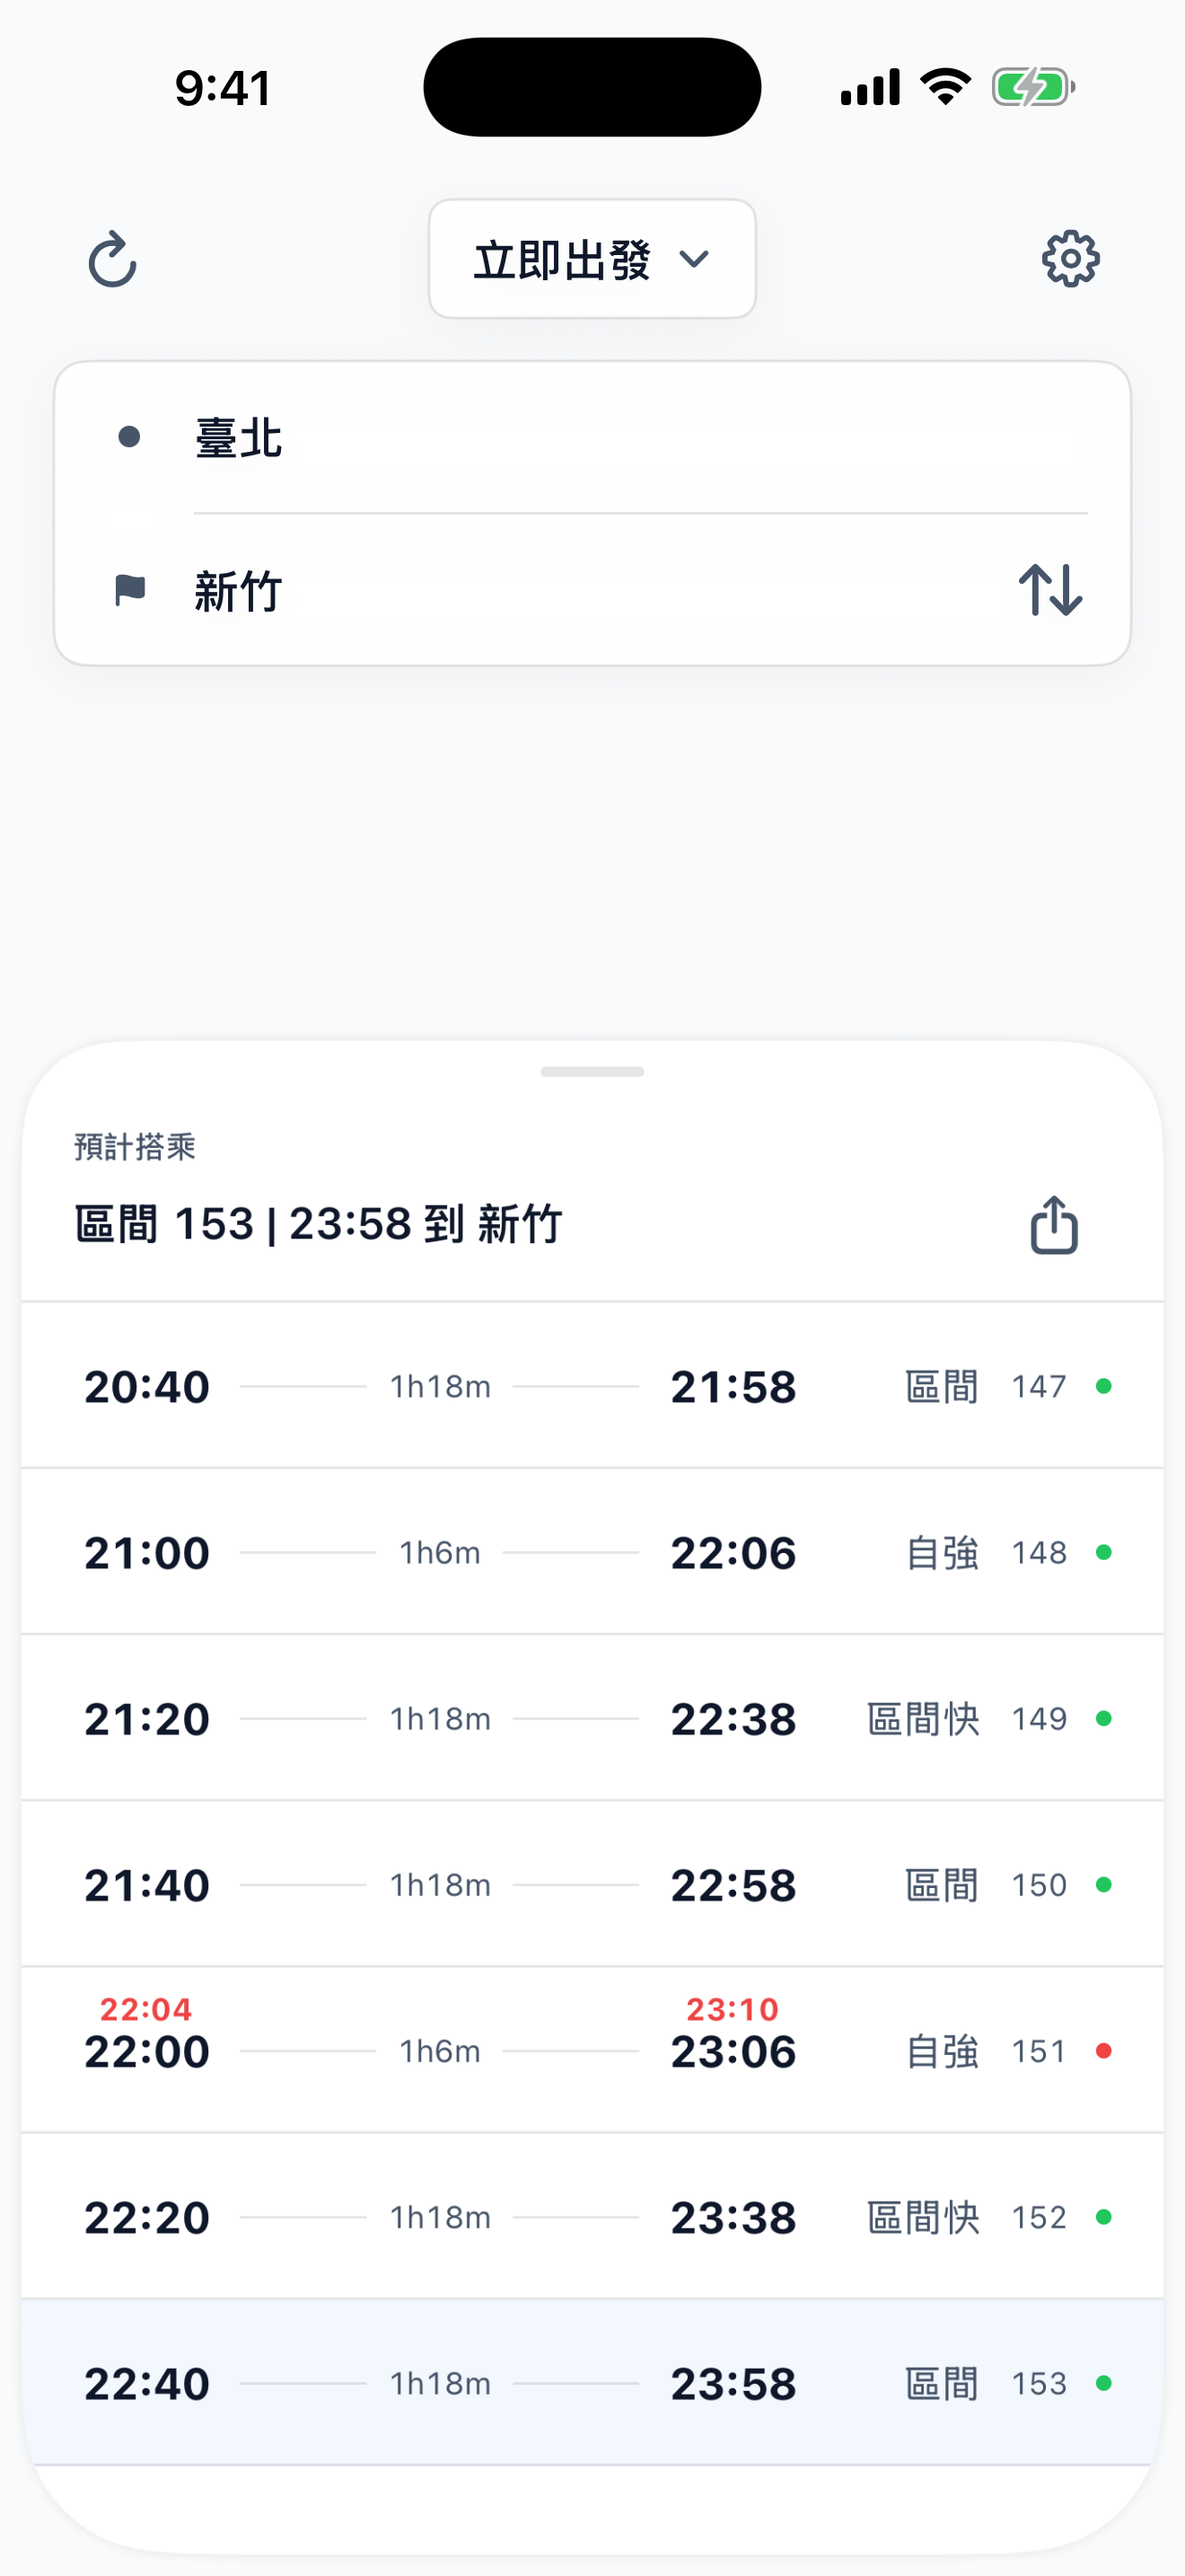
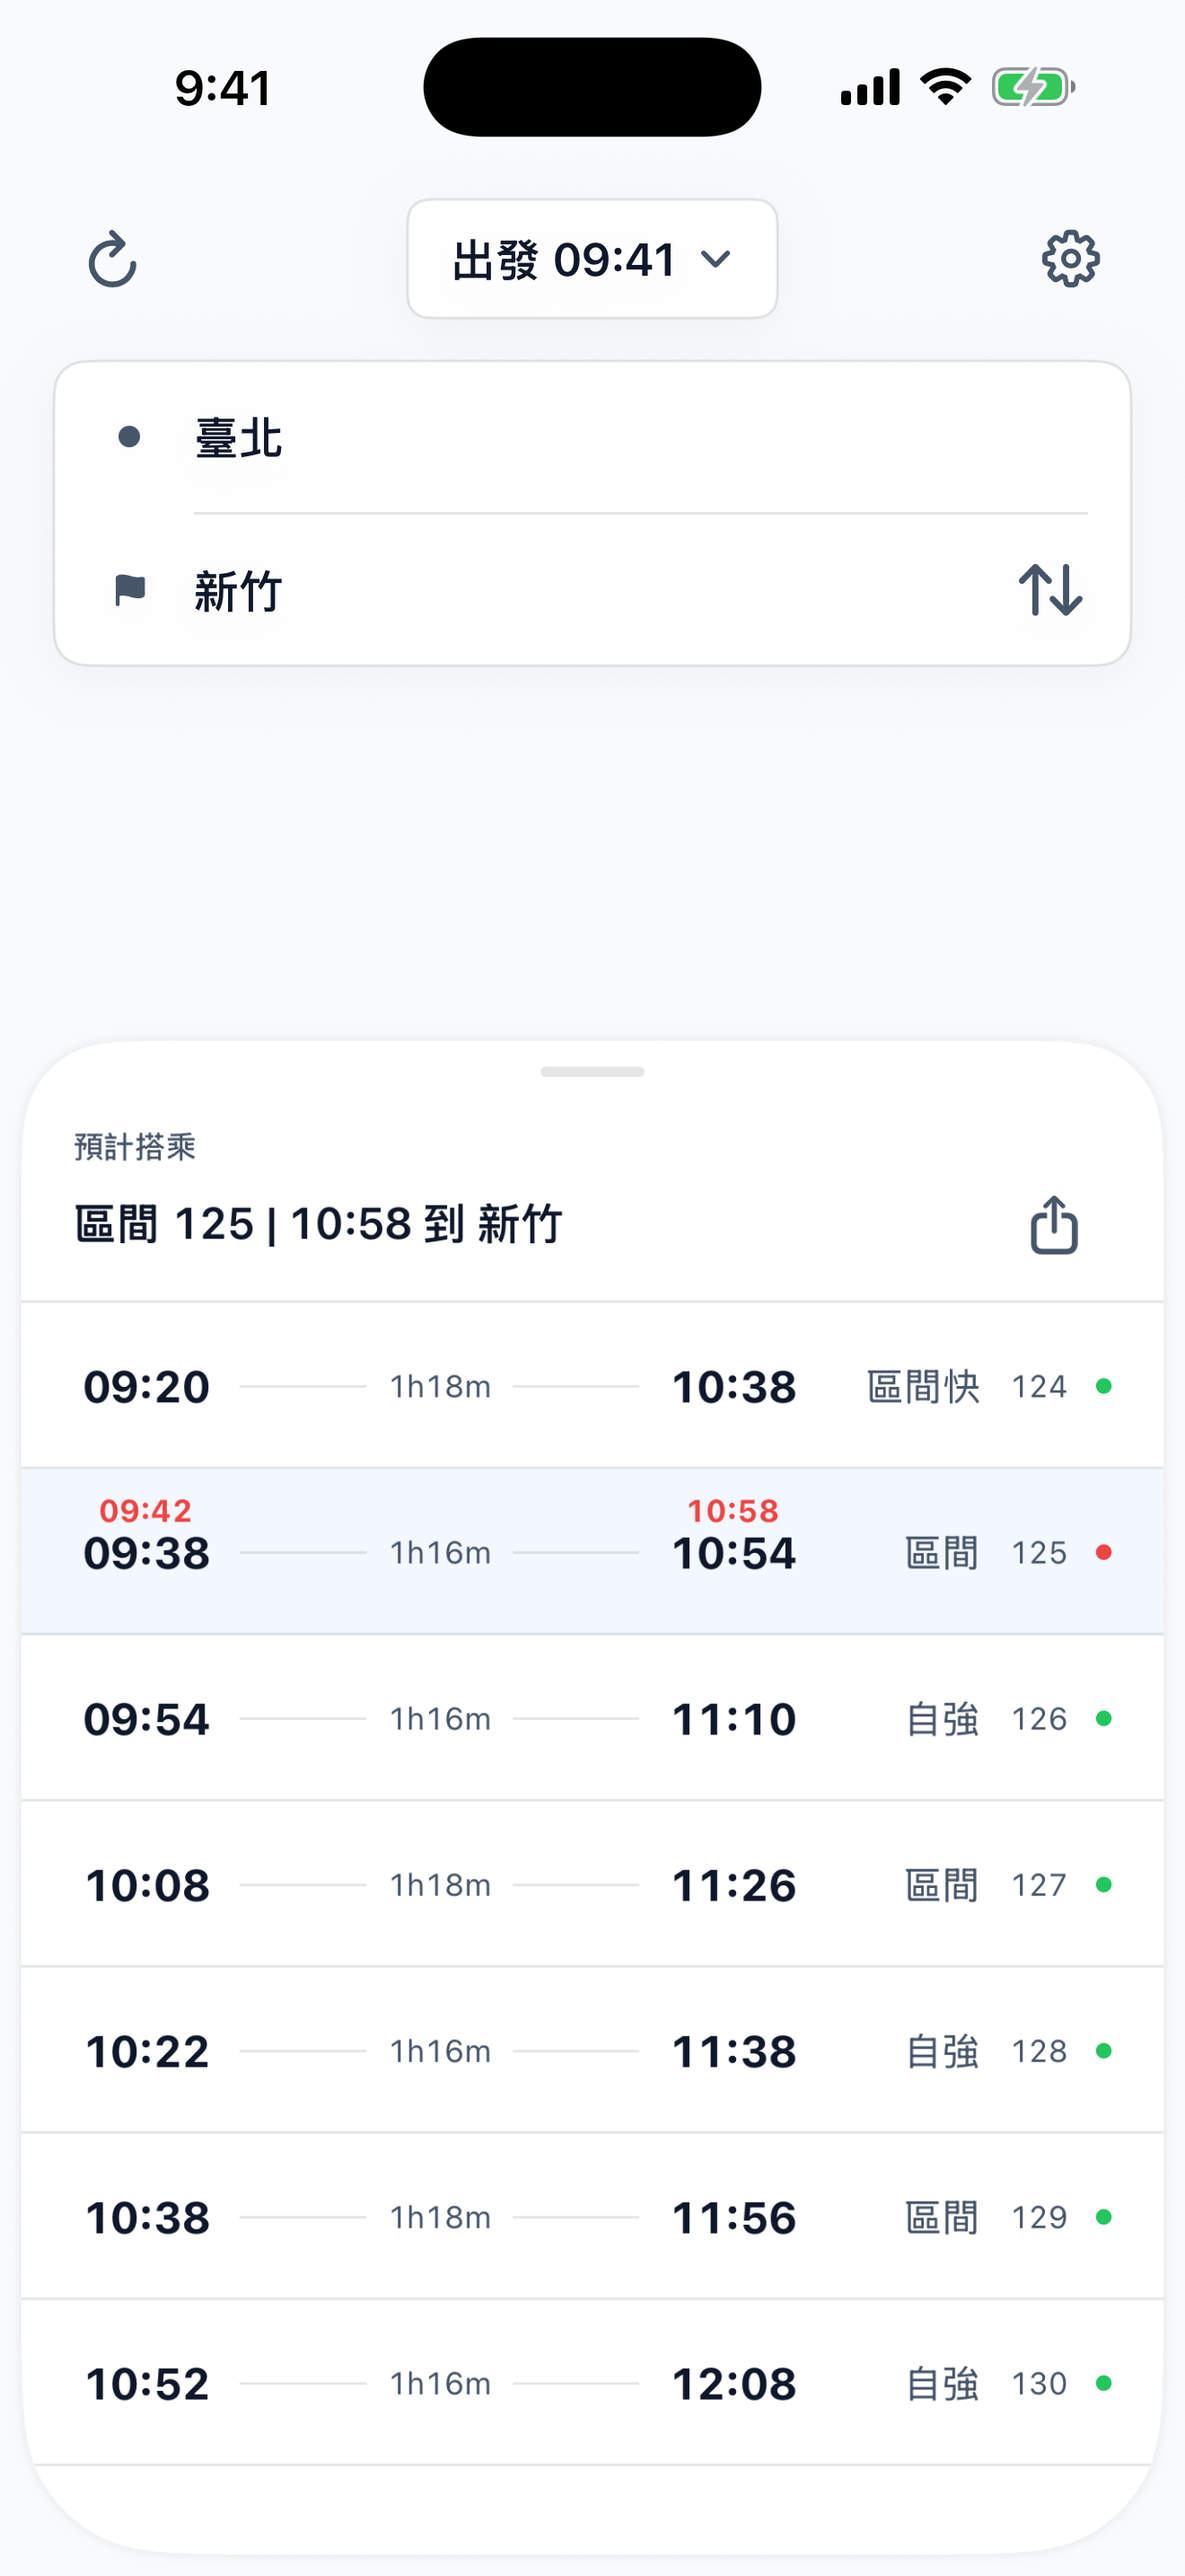
fix: refine docs showcase screenshot

diff --git a/apps/ios/OnTrack/APIClient.swift b/apps/ios/OnTrack/APIClient.swift
@@ -72,6 +72,12 @@ actor APIClient {
     private var usesMockData: Bool {
         ProcessInfo.processInfo.environment["ONTRACK_MOCK_DATA"] == "1"
             || ProcessInfo.processInfo.arguments.contains("--mock-data")
+            || usesShowcaseData
+    }
+
+    private var usesShowcaseData: Bool {
+        ProcessInfo.processInfo.environment["ONTRACK_SHOWCASE_DATA"] == "1"
+            || ProcessInfo.processInfo.arguments.contains("--showcase-data")
     }
 #endif
 }
@@ -110,7 +116,12 @@ private enum MockAPI {
     }
 
     private static func mockTrains(origin: Station, destination: Station) -> [TrainInfo] {
-        (0..<54).map { index in
+        if ProcessInfo.processInfo.environment["ONTRACK_SHOWCASE_DATA"] == "1"
+            || ProcessInfo.processInfo.arguments.contains("--showcase-data") {
+            return showcaseTrains(origin: origin, destination: destination)
+        }
+
+        return (0..<54).map { index in
             let departureMinutes = 5 * 60 + index * 20
             let durationMinutes = index.isMultiple(of: 3) ? 66 : 78
             let delay = index % 7 == 2 ? 4 : nil
@@ -127,6 +138,99 @@ private enum MockAPI {
                 status: delay == nil ? .onTime : .delayed
             )
         }
+    }
+
+    private static func showcaseTrains(origin: Station, destination: Station) -> [TrainInfo] {
+        [
+            TrainInfo(
+                trainNo: "124",
+                trainType: "區間快",
+                direction: 0,
+                originStation: origin.id,
+                destinationStation: destination.id,
+                departureTime: "09:20",
+                arrivalTime: "10:38",
+                delay: nil,
+                status: .onTime
+            ),
+            TrainInfo(
+                trainNo: "125",
+                trainType: "區間",
+                direction: 0,
+                originStation: origin.id,
+                destinationStation: destination.id,
+                departureTime: "09:38",
+                arrivalTime: "10:54",
+                delay: 4,
+                status: .delayed
+            ),
+            TrainInfo(
+                trainNo: "126",
+                trainType: "自強",
+                direction: 0,
+                originStation: origin.id,
+                destinationStation: destination.id,
+                departureTime: "09:54",
+                arrivalTime: "11:10",
+                delay: nil,
+                status: .onTime
+            ),
+            TrainInfo(
+                trainNo: "127",
+                trainType: "區間",
+                direction: 0,
+                originStation: origin.id,
+                destinationStation: destination.id,
+                departureTime: "10:08",
+                arrivalTime: "11:26",
+                delay: nil,
+                status: .onTime
+            ),
+            TrainInfo(
+                trainNo: "128",
+                trainType: "自強",
+                direction: 0,
+                originStation: origin.id,
+                destinationStation: destination.id,
+                departureTime: "10:22",
+                arrivalTime: "11:38",
+                delay: nil,
+                status: .onTime
+            ),
+            TrainInfo(
+                trainNo: "129",
+                trainType: "區間",
+                direction: 0,
+                originStation: origin.id,
+                destinationStation: destination.id,
+                departureTime: "10:38",
+                arrivalTime: "11:56",
+                delay: nil,
+                status: .onTime
+            ),
+            TrainInfo(
+                trainNo: "130",
+                trainType: "自強",
+                direction: 0,
+                originStation: origin.id,
+                destinationStation: destination.id,
+                departureTime: "10:52",
+                arrivalTime: "12:08",
+                delay: nil,
+                status: .onTime
+            ),
+            TrainInfo(
+                trainNo: "131",
+                trainType: "區間快",
+                direction: 0,
+                originStation: origin.id,
+                destinationStation: destination.id,
+                departureTime: "11:08",
+                arrivalTime: "12:26",
+                delay: nil,
+                status: .onTime
+            ),
+        ]
     }
 
     private static func trainType(for index: Int) -> String {

diff --git a/apps/ios/OnTrack/ContentView.swift b/apps/ios/OnTrack/ContentView.swift
@@ -175,6 +175,13 @@ struct ContentView: View {
         return today...maxDate.addingTimeInterval(-1)
     }
 
+#if DEBUG
+    private var isShowcaseMode: Bool {
+        ProcessInfo.processInfo.environment["ONTRACK_SHOWCASE_DATA"] == "1"
+            || ProcessInfo.processInfo.arguments.contains("--showcase-data")
+    }
+#endif
+
     var body: some View {
         NavigationStack {
             ZStack {
@@ -253,6 +260,11 @@ struct ContentView: View {
                 await loadStations()
             }
             .onAppear {
+#if DEBUG
+                guard !isShowcaseMode else {
+                    return
+                }
+#endif
                 refreshAutoDetectedOrigin()
             }
             .task(id: scheduleTaskID) {
@@ -416,12 +428,42 @@ struct ContentView: View {
             let loadedStations = try await APIClient.shared.stations()
             stations = loadedStations
 
+#if DEBUG
+            if isShowcaseMode {
+                applyShowcaseState()
+                return
+            }
+#endif
+
             resolveInitialStations(loadedStations)
             refreshAutoDetectedOrigin()
         } catch {
             errorMessage = error.localizedDescription
         }
     }
+
+#if DEBUG
+    private func applyShowcaseState() {
+        setOrigin("1000", source: .geo)
+        destinationId = "1210"
+        destinationSource = .cached
+        languageCode = AppLanguageSetting.zhTW.rawValue
+        appearanceRaw = AppAppearanceSetting.light.rawValue
+        activeSheet = .trainPanel
+
+        var components = Formatters.taipeiCalendar.dateComponents(
+            [.year, .month, .day],
+            from: Date()
+        )
+        components.hour = 9
+        components.minute = 41
+        components.second = 0
+
+        if let showcaseDate = Formatters.taipeiCalendar.date(from: components) {
+            timeSelection = TimeSelection(mode: .departure, date: showcaseDate)
+        }
+    }
+#endif
 
     private func loadSchedule(refreshLive: Bool = false) async {
         guard canLoadSchedule, let originStation, let destinationStation else {

diff --git a/apps/web/src/app/docs/page.module.css b/apps/web/src/app/docs/page.module.css
@@ -5,7 +5,7 @@
     --docs-image-outline: rgba(0, 0, 0, 0.1);
 
     min-height: 100vh;
-    padding: var(--space-6) var(--space-5) var(--space-8);
+    padding: 0 var(--space-5);
     background:
         linear-gradient(180deg, var(--color-surface-tint), var(--color-bg) 36%),
         var(--color-bg);
@@ -29,6 +29,7 @@
     align-items: center;
     justify-content: space-between;
     gap: var(--space-4);
+    padding: var(--space-4) 0;
 }
 
 .brand {
@@ -88,7 +89,7 @@
 .hero {
     display: grid;
     justify-items: center;
-    padding: calc(var(--space-15) + var(--space-8)) 0 var(--space-8);
+    padding: calc(var(--space-15) + var(--space-8) + var(--space-1)) 0;
     text-align: center;
 }
 
@@ -237,7 +238,7 @@
 }
 
 .featureCard[data-placement='bottomLeft'] {
-    top: calc(var(--space-15) * 7);
+    top: calc(var(--space-15) * 7 + var(--space-10) + var(--space-3));
 }
 
 .featureCard[data-placement='bottomRight'] {
@@ -326,6 +327,7 @@
     align-items: center;
     justify-content: space-between;
     gap: var(--space-4);
+    padding-bottom: var(--space-4);
     padding-top: var(--space-4);
     border-top: 1px solid var(--color-border);
     color: var(--color-text-dim);
@@ -377,7 +379,7 @@
 
 @media (max-width: 760px) {
     .page {
-        padding: var(--space-5) var(--space-4) var(--space-6);
+        padding: 0 var(--space-4);
     }
 
     .shell {

diff --git a/apps/web/src/app/docs/page.tsx b/apps/web/src/app/docs/page.tsx
@@ -112,12 +112,11 @@ export default function DocsPage() {
 
                 <section className={styles.hero}>
                     <div className={styles.heroCopy}>
-                        <h1 className={styles.title}>
-                            專為台鐵旅客打造的時刻表 App。
-                        </h1>
+                        <h1 className={styles.title}>省時，也準時。</h1>
                         <p className={styles.lede}>
-                            自動規劃路線、顯示即時班次與延誤資訊，讓您打開 App
-                            的瞬間就能知道這趟怎麼搭。
+                            專為台鐵旅客打造。OnTrack
+                            能自動偵測您的所在車站，並依搭乘習慣預測路線。打開
+                            App 的瞬間，即可掌握即時班次與延誤資訊。
                         </p>
                         <div className={styles.heroActions}>
                             <Link className={styles.primaryCta} href='/'>
